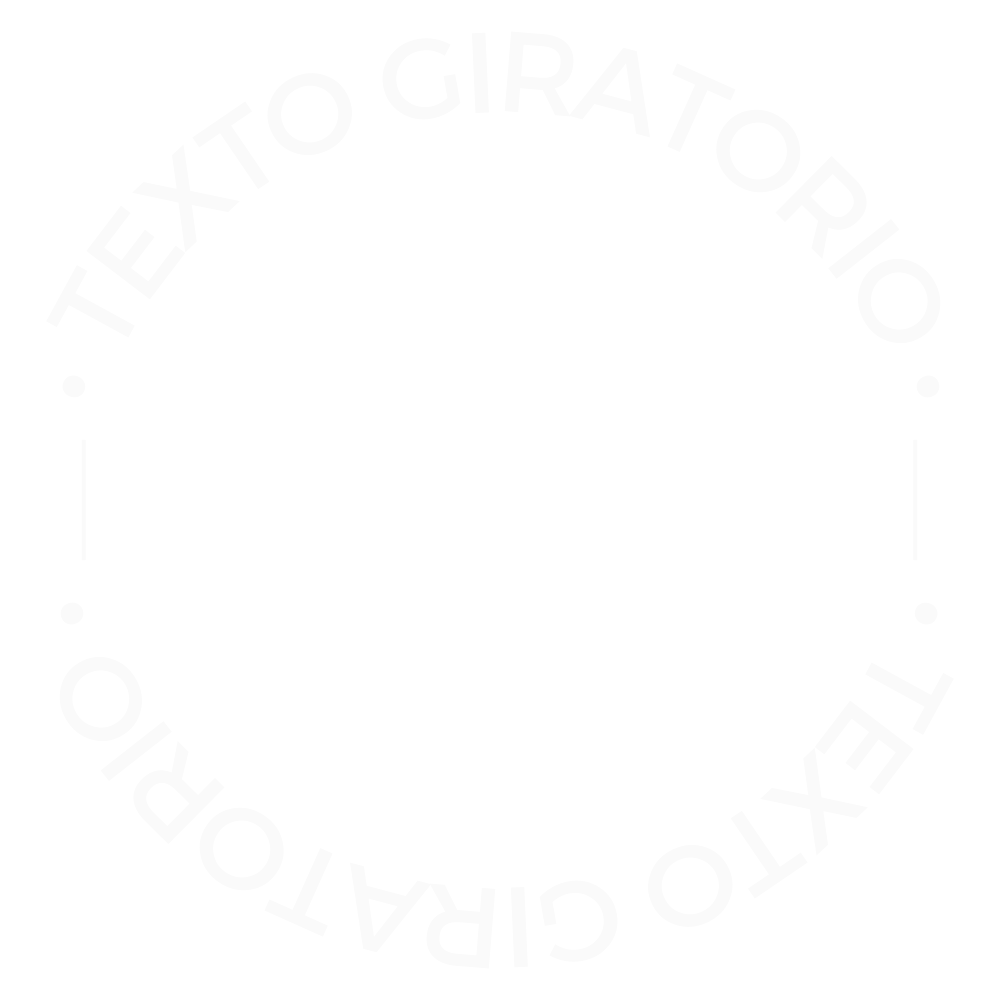
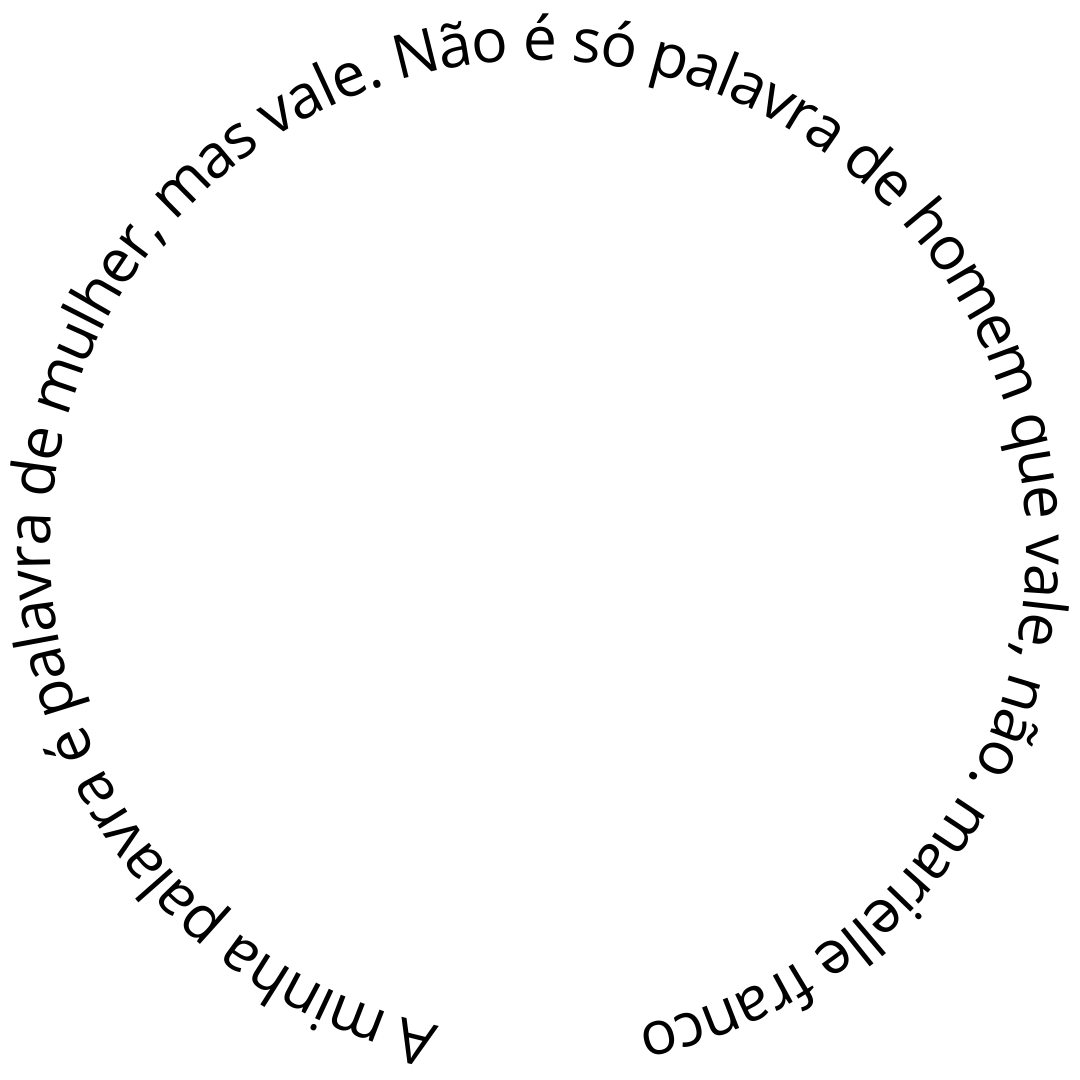
Add files via upload

diff --git a/index.html b/index.html
@@ -4,7 +4,7 @@
 <head>
     <meta charset="UTF-8">
     <meta name="viewport" content="width=device-width, initial-scale=1.0">
-    <title>Titulo do seu site</title>
+    <title>biografia</title>
 
     <!--CSS-->
     <link rel="stylesheet" href="assets/css/style.css">
@@ -26,18 +26,14 @@
         <i class="bi bi-chevron-up"></i>
     </div>
 
-    <!--Botão WhatsApp-->
-    <div id="whatsappButton" class="fixed-button">
-        <i class="bi bi-whatsapp"></i>
-    </div>
-
+    
     <!--Container Geral-->
     <div class="container">
 
         <!--Header-->
         <header class="header">
             <div class="logo">
-                <img src="assets/img/SUA-LOGO-AQUI.png" alt="">
+                <img src="assets/img/logo.png" alt="">
             </div>
             <div class="menu">
                 <label class="hamburger">
@@ -71,10 +67,9 @@
                         <h1 class="destaque-inicio">biografia</h1>
                     </div>
                     <div class="paragrafo-inicio" data-aos="fade-up" data-aos-delay="200" data-aos-duration="1000">
-                        <p>mariely franco</p>
+                        <p>Marielle Franco</p>
                     </div>
-                    <button class="cta" data-aos="fade-up" data-aos-delay="400" data-aos-duration="1000">
-                        <span>Fale Comigo</span>
+                
                         <svg width="15px" height="10px" viewBox="0 0 13 10">
                             <path d="M1,5 L11,5"></path>
                             <polyline points="8 1 12 5 8 9"></polyline>
@@ -82,8 +77,8 @@
                     </button>
                 </div>
                 <div class="complemento-inicio">
-                    <img class="text" src="assets/img/complemento-esquerda.png" alt="">
-                    <img class="qr-code" src="assets/img/qr_code_rmdeveloper.png" alt="qr code para seu link bio">
+            
+                <h3>Marielle Franco foi uma socióloga, política, defensora dos direitos humanos e ativista feminista brasileira.</h3>
                 </div>
             </div>
         </main>
@@ -95,17 +90,17 @@
                 <!--Slide Sobre-->
                 <div class="headline-sobre" data-aos="fade-up" data-aos-duration="1000">
                     <div class="headline-scroll" id="headline-scroll">
-                        <span class="bold">SOBRE</span>
+                        <span class="bold">Essa cidade precisa ser de fato cuidada, e a gente sabe que não está sendo. Os nossos corpos, o nosso transitar, a nossa mobilidade sempre fica ameaçada.</span>
                         <span class="divisor"></span>
-                        <span class="light">SOBRE</span>
+                        <span class="light">Chega de esculachar a população. Chega de matar nossos jovens.</span>
                         <span class="divisor"></span>
-                        <span class="bold">SOBRE</span>
+                        <span class="bold">A vida no Rio de Janeiro anda muito ameaçada, mas tem muita resistência também. Especialmente contra essa mão de controle pra cima de corpos favelados. Hoje a gente tem o temor e aí, quem aqui vigia os vigias? Quem presta contas?</span>
                         <span class="divisor"></span>
-                        <span class="light">SOBRE</span>
+                        <span class="light">Ciclo de uma sociedade racista: enquanto mais um jovem negro e pobre é preso só por existir, mais uma mãe negra e pobre sofre com a solidão.</span>
                         <span class="divisor"></span>
-                        <span class="bold">SOBRE</span>
+                        <span class="bold">Para que a discussão se amplie é fundamental compreender que estamos em um lugar de tratamento diferente. É preciso reconhecer o racismo.</span>
                         <span class="divisor"></span>
-                        <span class="light">SOBRE</span>
+                        <span class="light">Falar de raça é falar da dominação e escravização de um povo, do apagamento, silenciamento e retirada da sua humanidade. Falar sobre raça é falar sobre a desigualdade que estrutura a nossa sociedade até hoje.</span>
                         <span class="divisor"></span>
                     </div>
                 </div>
@@ -113,18 +108,16 @@
                     <div class="left-sobre" data-aos="fade-right" data-aos-duration="1000">
                         <div class="textos-sobre">
                             <h1>biografia sobre</h1>
-                            <p>maryeli franco</p>
+                            <p>Marielle Franco</p>
                         </div>
                         <div class="redes-sociais">
                             <a href="#">INSTAGRAM<i class="bi bi-arrow-right"></i></a>
-                            <a href="#">GITHUB<i class="bi bi-arrow-right"></i></a>
-                            <a href="#">FACEBOOK<i class="bi bi-arrow-right"></i></a>
-                            <a href="#">LINKEDIN<i class="bi bi-arrow-right"></i></a>
+                            
                         </div>
                     </div>
                     <div class="right-sobre" data-aos="fade-left" data-aos-duration="1000">
                         <div class="imagem-sobre">
-                            <img src="assets/img/sua-foto.png" alt="">
+                            <img src="assets/img/imgfundo-removebg-preview.png" alt="">
                         </div>
                         <div class="complemento-sobre">
                             <img src="assets/img/texto-giratorio.png" alt="">
